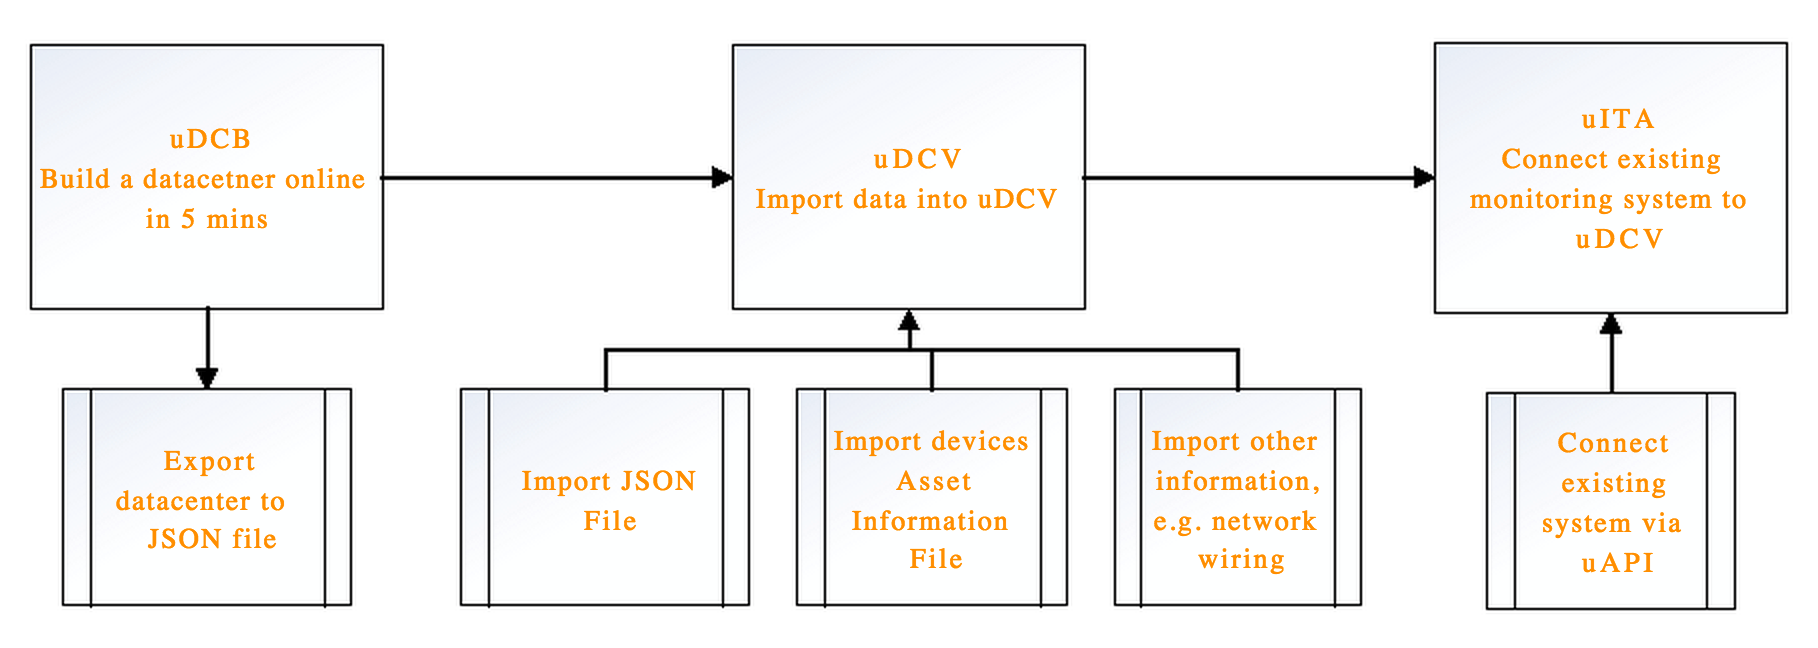
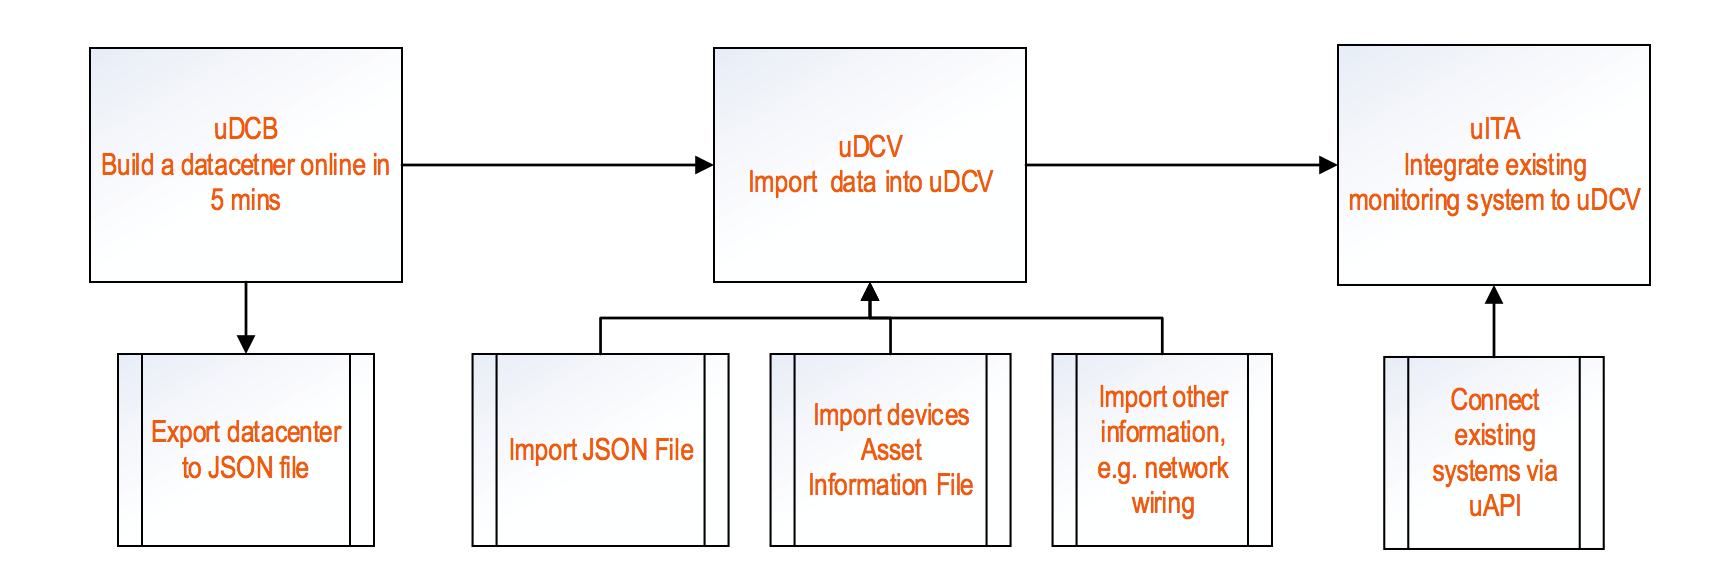
change wording

diff --git a/index.html b/index.html
@@ -98,7 +98,7 @@
                             <div class="spacer-single"></div>
                             <div class="text-slider border-deco">
                                 <div class="text-item">Build DataCenter in
-                                    <br><span class="id-color">5 Minutes</span></div>
+                                    <br><span class="id-color">Five Minutes</span></div>
                                 <div class="text-item"><span class="id-color"></span>Make <span class="id-color">I.T.</span> Visible</div>
                             </div>
                             <div class="spacer-single"></div>
@@ -303,6 +303,10 @@
                         </div>
                         <div class="col-md-12 text-center animated fadeInUp" data-animation="fadeInUp" data-delay="400" style="opacity: 0;">
                             <img src="images/product_picture/how-it-works.png" class="img-responsive" alt="">
+                        </div>
+                         <div class="spacer-single"></div>
+                        <div class="col-md-12 text-center animated fadeInUp" data-animation="fadeInUp" data-delay="400" style="opacity: 0;">
+                             <a href="http://54.186.219.119:4567/topic/21/end-to-end-workflow" class="btn btn-border btn-big">Step by Step Guide</a>
                         </div>
                     </div>
                 </div>

diff --git a/dcb.html b/dcb.html
@@ -126,7 +126,7 @@
                                         <br>                          
                                         - Build a datacenter in 5 minutes <br>
                                         - Tailored for datacenter and  buildings <br>
-                                        - Thousands of IT equipment model are available                                               
+                                        - Thousands of IT equipment models are available                                               
                                     </div>
                                     <br><br>
                                 </div>
